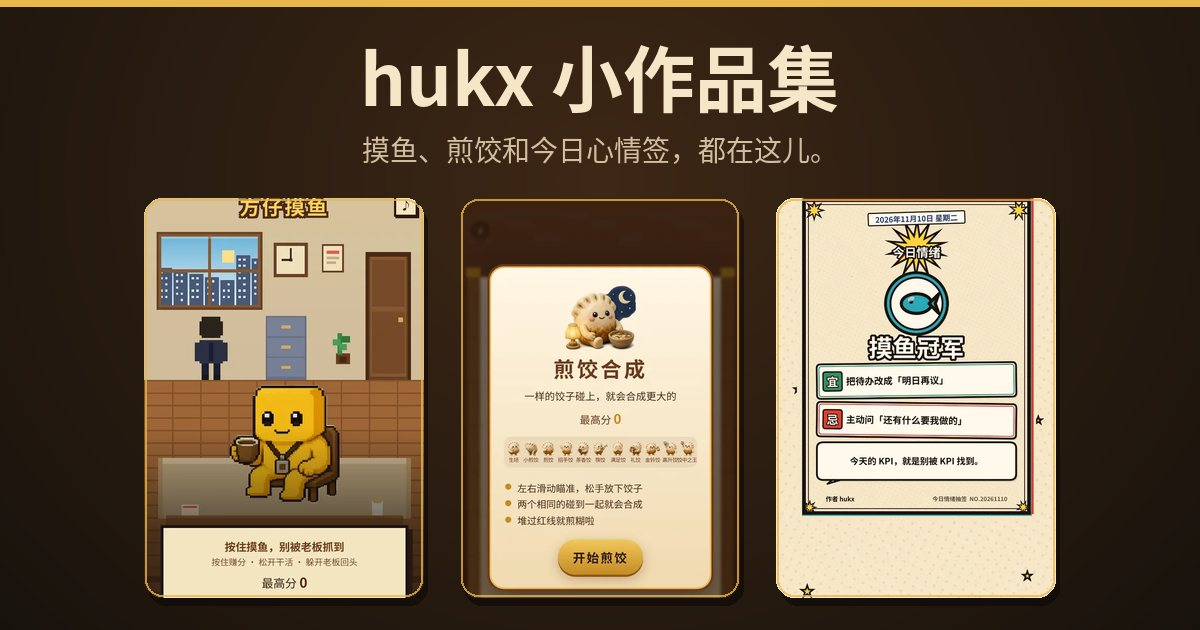
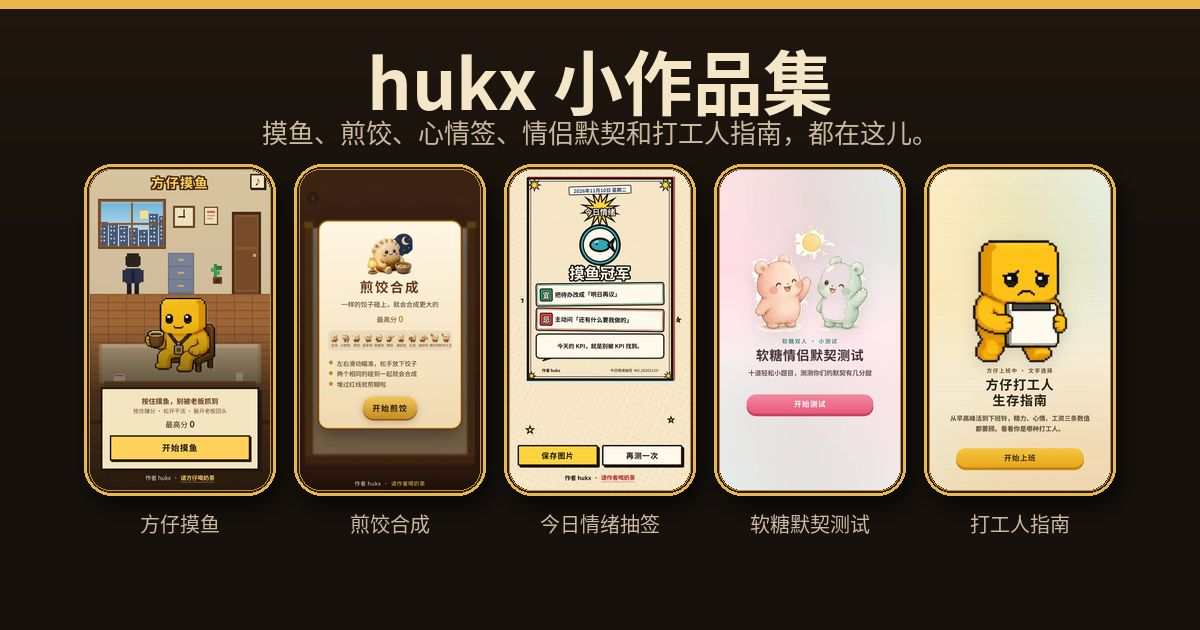
feat: add 方仔打工人生存指南 card
把作品集改成五个小游戏：新增「方仔打工人生存指南」卡片，截图按现有规格压成 WebP。文案、README 和 og.jpg 同步改为五款，og:image / twitter:image 改为绝对地址 https://raw.githack.com/hukaixuan/hukx-lab/main/og.jpg。表情包仍标注「微信表情包 · 即将投稿」。

diff --git a/index.html b/index.html
@@ -8,20 +8,20 @@
   <meta name="format-detection" content="telephone=no" />
   <meta name="author" content="hukx" />
   <title>hukx 小作品集</title>
-  <meta name="description" content="摸鱼、煎饺、心情签和情侣默契，都在这儿。四个小游戏、三套表情包，再加一个小工具。" />
+  <meta name="description" content="摸鱼、煎饺、心情签、情侣默契和打工人指南，都在这儿。五个小游戏、三套表情包，再加一个小工具。" />
   <meta property="og:type" content="website" />
   <meta property="og:locale" content="zh_CN" />
   <meta property="og:site_name" content="hukx 小作品集" />
   <meta property="og:title" content="hukx 小作品集" />
-  <meta property="og:description" content="摸鱼、煎饺、心情签和情侣默契，都在这儿。四个小游戏、三套表情包，再加一个小工具。" />
-  <meta property="og:image" content="assets/og.jpg" />
+  <meta property="og:description" content="摸鱼、煎饺、心情签、情侣默契和打工人指南，都在这儿。五个小游戏、三套表情包，再加一个小工具。" />
+  <meta property="og:image" content="https://raw.githack.com/hukaixuan/hukx-lab/main/og.jpg" />
   <meta property="og:image:width" content="1200" />
   <meta property="og:image:height" content="630" />
-  <meta property="og:image:alt" content="hukx 小作品集：方仔摸鱼、煎饺合成、今日情绪抽签、软糖情侣默契测试" />
+  <meta property="og:image:alt" content="hukx 小作品集：方仔摸鱼、煎饺合成、今日情绪抽签、软糖情侣默契测试、方仔打工人生存指南" />
   <meta name="twitter:card" content="summary_large_image" />
   <meta name="twitter:title" content="hukx 小作品集" />
-  <meta name="twitter:description" content="摸鱼、煎饺、心情签和情侣默契，都在这儿。" />
-  <meta name="twitter:image" content="assets/og.jpg" />
+  <meta name="twitter:description" content="摸鱼、煎饺、心情签、情侣默契和打工人指南，都在这儿。" />
+  <meta name="twitter:image" content="https://raw.githack.com/hukaixuan/hukx-lab/main/og.jpg" />
   <link rel="icon" type="image/png" href="assets/favicon.png" />
   <link rel="apple-touch-icon" href="assets/apple-touch-icon.png" />
   <link rel="stylesheet" href="css/style.css" />
@@ -32,7 +32,7 @@
   <header class="hero">
     <p class="brand">hukx</p>
     <h1>hukx 小作品集</h1>
-    <p class="tagline">摸鱼、煎饺、心情签和情侣默契，都在这儿。</p>
+    <p class="tagline">摸鱼、煎饺、心情签、情侣默契和打工人指南，都在这儿。</p>
   </header>
 
   <main id="main">
@@ -77,6 +77,16 @@
             <h3>软糖情侣默契测试</h3>
             <p>10 道题测测你们有多默契</p>
             <a class="btn" href="https://rawcdn.githack.com/hukaixuan/ruantang-moqi/bcbd3bcb90c85825bb830929091f0a060dcdd1e7/index.html" target="_blank" rel="noopener noreferrer">开始玩</a>
+          </div>
+        </li>
+        <li class="card game-card">
+          <a class="shot" href="https://rawcdn.githack.com/hukaixuan/fangzai-daka/1984a9f7cce3441228e89d66fd73d79326cc37f0/index.html" target="_blank" rel="noopener noreferrer">
+            <img src="assets/games/fangzai-daka.webp" width="540" height="960" alt="方仔打工人生存指南开始画面：方仔抱着电脑站在笔记本纹理背景前，下方是开始上班按钮" />
+          </a>
+          <div class="card-body">
+            <h3>方仔打工人生存指南</h3>
+            <p>做选择熬过一天，看你是哪种打工人</p>
+            <a class="btn" href="https://rawcdn.githack.com/hukaixuan/fangzai-daka/1984a9f7cce3441228e89d66fd73d79326cc37f0/index.html" target="_blank" rel="noopener noreferrer">开始玩</a>
           </div>
         </li>
       </ul>

diff --git a/css/style.css b/css/style.css
@@ -177,6 +177,10 @@ h2 .idx {
   object-position: center 20%;
 }
 
+.game-card:nth-child(5) .shot img {
+  object-position: center 20%;
+}
+
 .sheet {
   background: #282830;
   overflow: hidden;

diff --git a/README.md b/README.md
@@ -1,6 +1,6 @@
 # hukx 小作品集
 
-hukx 的静态作品集首页：四个小游戏、三套表情包，再加一个小工具。
+hukx 的静态作品集首页：五个小游戏、三套表情包，再加一个小工具。
 
 纯静态 HTML/CSS，无后端、无第三方库。手机优先。
 
@@ -17,7 +17,7 @@ python3 -m http.server 8768
 
 ## 页面内容
 
-- 小游戏：方仔摸鱼、煎饺合成、今日情绪抽签、软糖情侣默契测试，外链到已发布的页面，「开始玩」在新标签打开
+- 小游戏：方仔摸鱼、煎饺合成、今日情绪抽签、软糖情侣默契测试、方仔打工人生存指南，外链到已发布的页面，「开始玩」在新标签打开
 - 表情包：方仔上班中、软糖双人、煎饺乐，均标注「微信表情包 · 即将投稿」
 - 小工具：Model Router Studio
 - 页脚：作者 hukx · [请作者喝奶茶](https://afdian.com/a/hukxai)
@@ -25,5 +25,6 @@ python3 -m http.server 8768
 ## 说明
 
 - 游戏截图来自本地无头浏览器截取的开始页 / 抽签页，已裁掉黑边并压缩为 WebP
+- 分享预览图 `og.jpg` 为 1200×630；页面里的 `og:image` / `twitter:image` 使用绝对地址 `https://raw.githack.com/hukaixuan/hukx-lab/main/og.jpg`
 - 「方仔上班中」「软糖双人」预览图来自各自 `preview/contact-sheet-dark.png`
 - 「煎饺乐」目录里没有现成联系表，预览图是从 `source/sheet1.jpg`（16 张）和 `source/sheet2.jpg`（8 张）切出来，按另外两套的规格拼成 6×4 深色联系表；标题词取自策划稿，源图文件夹尚未单独定稿
